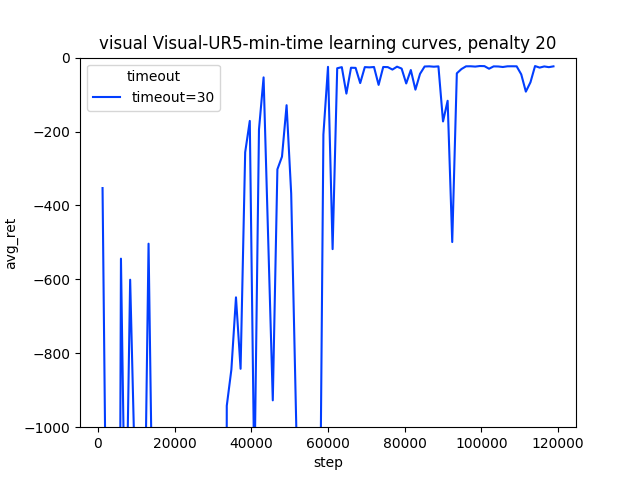
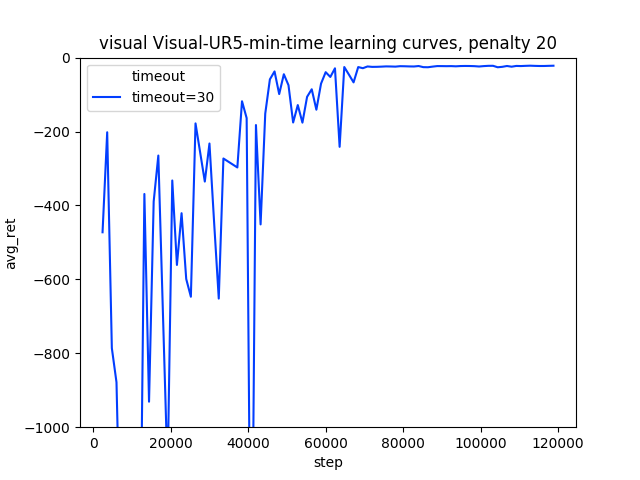
reset at the end

diff --git a/task_ur5_visual_reacher_min_task.py b/task_ur5_visual_reacher_min_task.py
@@ -86,7 +86,7 @@ def parse_args():
     parser.add_argument('--mode', default='l', type=str, help="Modes in ['r', 'l', 'rl', 'e'] ")
     # misc
     parser.add_argument('--description', default='size_margin=20', type=str)
-    parser.add_argument('--seed', default=3, type=int)
+    parser.add_argument('--seed', default=1, type=int)
     parser.add_argument('--work_dir', default='.', type=str)
     parser.add_argument('--save_tb', default=False, action='store_true')
     parser.add_argument('--save_model', default=True, action='store_true')
@@ -250,7 +250,7 @@ def main():
             returns.append(ret)
             epi_lens.append(epi_steps)
             L.log('train/duration', time.time() - epi_start_time, total_steps)
-            L.log('train/episode_return', ret, total_steps)
+            L.log('train/episode_reward', ret, total_steps)
             L.log('train/episode', len(returns), total_steps)
             L.dump(total_steps)
             utils.save_returns(args.return_dir+'/return.txt', returns, epi_lens)
@@ -259,6 +259,7 @@ def main():
     agent.save_policy_to_file(args.model_dir, total_steps)
 
     # Clean up
+    env.reset()
     agent.close()
     env.close()
     print(f"Finished in {duration}")

diff --git a/plot.py b/plot.py
@@ -6,7 +6,7 @@ from pathlib import Path
 from statistics import mean
 
 if __name__ == "__main__":
-    res_dir = Path(__file__).parent/'backups'
+    res_dir = Path(__file__).parent/'plots'
     envs = next(os.walk(res_dir))[1]
     plot_interval = 1200
 
